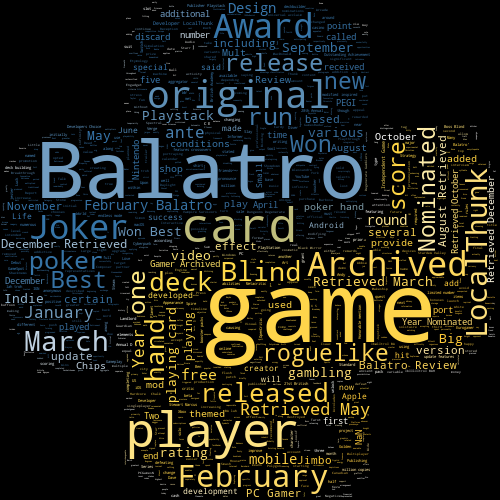
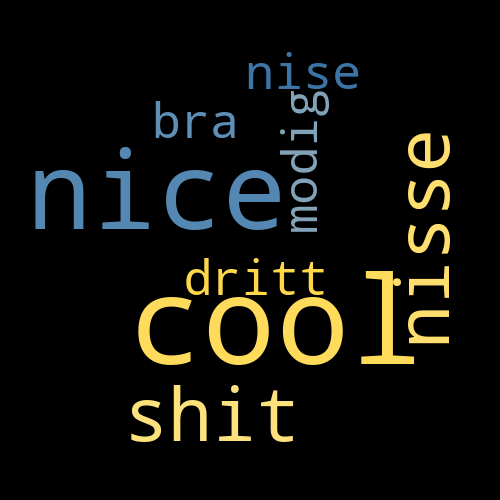
Connected the cloud to html, displays the cloud on the html

Changed region(s): [[0.0, 0.0, 0.99, 1.0], [0.33, 0.99, 0.36, 1.0]]

diff --git a/templates/index.html b/templates/index.html
@@ -24,7 +24,7 @@
 
     <h2>{{ html_adjective_list }}</h2>
 
-    <img src="{{ url_for('static', filename='images/output_wordcloud_dark.png') }}" 
+    <img src="{{ url_for('static', filename='images/output_wordcloud_light.png') }}" 
       alt="Wordcloud of the adjectives"  
       height="500">
 

diff --git a/word_cloud_test.py b/word_cloud_test.py
@@ -1,39 +1,47 @@
+import matplotlib
+matplotlib.use('Agg')  # Use non-interactive backend
+
 from wordcloud import WordCloud, STOPWORDS, ImageColorGenerator
 import numpy as np
 import matplotlib.pyplot as plt
 from PIL import Image
 
-text = open("text.txt", 'r').read()
+separator = ' '
 
-# Load and resize FIRST
-mask_image = Image.open("images/python.jpeg")
-mask_image = mask_image.resize((500, 500))  # Resize before converting to array
+def make_cloud(x):
+    # x is [adjective_1, counter_1, adjective_2, counter_2, ...]
+    words = []
+    for i in range(0, len(x), 2):  # Step by 2 to get pairs
+        adjective = x[i]           # Get adjective (string)
+        counter = x[i + 1]         # Get counter (int)
+        words.extend([adjective] * counter)  # Repeat adjective 'counter' times
+    
+    text = separator.join(words)
+    
+    # Load and resize FIRST
+    mask_image = Image.open("images/python.jpeg")
+    mask_image = mask_image.resize((500, 500))
 
-# Convert to numpy array
-python_mask = np.array(mask_image)
+    # Convert to numpy array
+    python_mask = np.array(mask_image)
 
-# Create color generator from the numpy array
-colourmap = ImageColorGenerator(python_mask)
+    # Create color generator from the numpy array
+    colourmap = ImageColorGenerator(python_mask)
 
-wc = WordCloud(mask=python_mask,
-               background_color="black",
-               max_words=2000,
-               min_font_size=2).generate(text)
+    # Dark version
+    wc = WordCloud(mask=python_mask,
+                background_color="black",
+                max_words=2000,
+                min_font_size=2).generate(text)
 
-# Recolor using the image colors
-wc.recolor(color_func = colourmap)
+    wc.recolor(color_func=colourmap)
+    wc.to_file("static/images/output_wordcloud_dark.png")
 
-# Save the wordcloud
-wc.to_file("static/images/output_wordcloud_dark.png")
+    # Light version
+    wc = WordCloud(mask=python_mask,
+                background_color="white",
+                max_words=2000,
+                min_font_size=2).generate(text)
 
-
-wc = WordCloud(mask=python_mask,
-               background_color="white",
-               max_words=2000,
-               min_font_size=2).generate(text)
-
-wc.recolor(color_func = colourmap)
-
-wc.to_file("static/images/output_wordcloud_light.png")
-
-plt.imshow(wc, interpolation='bilinear')
+    wc.recolor(color_func=colourmap)
+    wc.to_file("static/images/output_wordcloud_light.png")

diff --git a/app.py b/app.py
@@ -1,6 +1,6 @@
 from flask import *
 from mariabd_python import *
-
+from word_cloud_test import make_cloud
 app = Flask(__name__)
 
 
@@ -28,6 +28,8 @@ def index():
         the_adjective = adjectives_list[max_index - 1].capitalize()
     else:
         the_adjective = "Nothing here yet"
+
+    make_cloud(adjectives_list)
 
     return render_template("index.html", html_adjective_list=adjectives_list, the_adjective_html=the_adjective)
 
